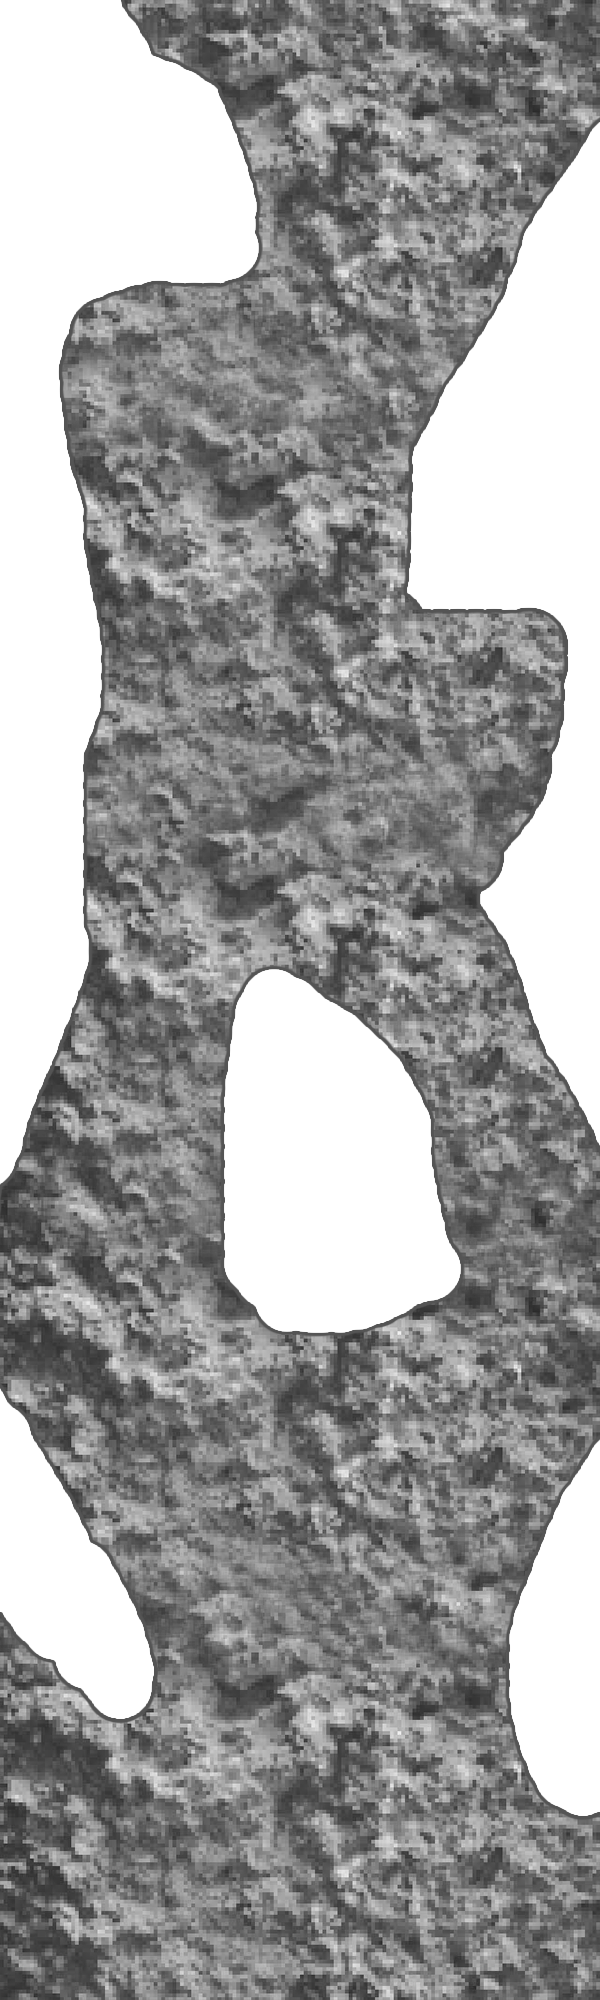
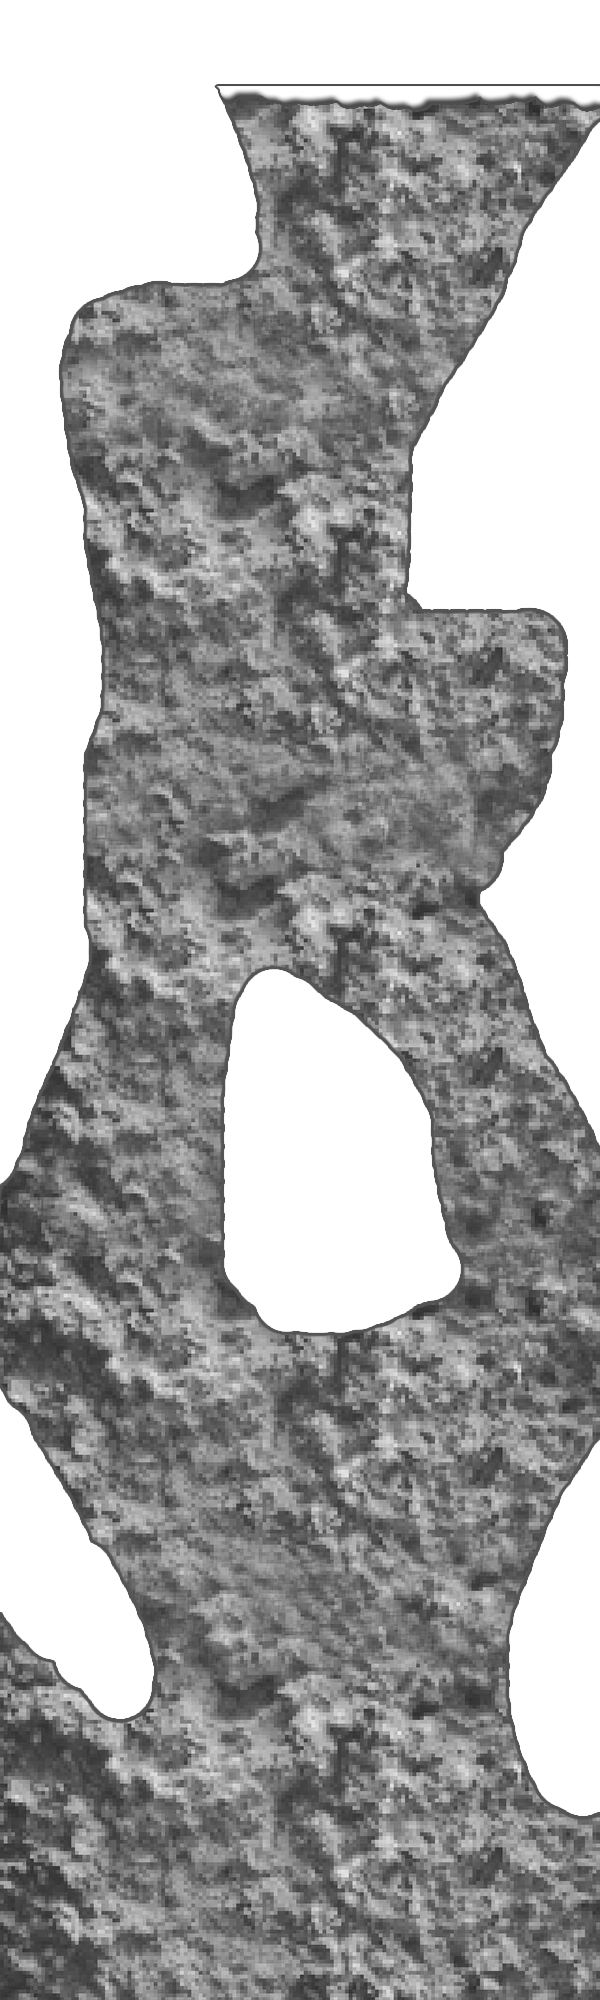
voittaminen

Changed region(s): [[0.21, 0.0, 1.0, 0.062]]

diff --git a/player.js b/player.js
@@ -8,7 +8,7 @@ function Player(lives, x, y) {
 	//Rajat missä pelkästään tausta alkaa liikkua
 	this.xleft=10;
 	this.xright=WIDTH-30;
-	this.ytop=100;
+	this.ytop=0;
 	this.ybottom=HEIGHT-30;
 	this.Xspeed=3;
 	this.Yspeed=1;
@@ -16,6 +16,7 @@ function Player(lives, x, y) {
 	this.dead=false;
 	//Kuolleena tarvitaan nopeusparametria.
 	this.vel=0;
+	this.won=false;
 	
 	//Testataan ladata pelaajasprite ja heittää se ruudulle.. lopullinen versio voisi olla eligantimpi ja enemmän kamaa player.jsssä
 	//Lisää EaselJS spritesheeteistä http://createjs.com/Docs/EaselJS/classes/SpriteSheet.html
@@ -23,13 +24,19 @@ function Player(lives, x, y) {
 		//Framerate animaatiolle, myös yksittäisille actioneille (kuten climb) voi vielä asettaa oman nopeuden
 		 framerate:10,
 		 images: ["images/climber.png"],
-		 frames: {width:35, height:50},
+		 frames: {width:35, height:50, count:10},
 		 //Tässä erilaisia animaatioita. Jostain syystä ne ei toimi :(
 		 animations: {
 		 	climb_vertical: [1,2], 
 		 	climb_left: { frames: [2,3,4] }, 
 		 	climb_right: { frames: [1,3,4]}, 
-		 	stationary: 0 
+		 	stationary: 0, 
+		 	stand: 9,
+		 	win_climb: { 
+		 		frames: [5,5,6,6,7,8,7,8], 
+		 		next: "stand",
+		 		speed: 0.5
+		 	}
 		 }
 	 };
 	var spriteSheet = new createjs.SpriteSheet(data);
@@ -56,37 +63,44 @@ Player.prototype.move	= function(){
 		this.lastX=this.sprite.x;
 		this.lastY=this.sprite.y;
 		// going sideways
-		if( this.dy === 0 && this.dx !== 0){
-			this.sprite.paused=false;
-			if (this.dx<0) {
-				if (this.sprite.currentAnimation != "climb_left"){
-					this.sprite.gotoAndPlay("climb_left");
+		if (!this.won) {
+			if( this.dy === 0 && this.dx !== 0){
+				this.sprite.paused=false;
+				if (this.dx<0) {
+					if (this.sprite.currentAnimation != "climb_left"){
+						this.sprite.gotoAndPlay("climb_left");
+					}
+				}		
+				else {
+					if (this.sprite.currentAnimation != "climb_right"){
+						this.sprite.gotoAndPlay("climb_right");
+					}
 				}
-			}		
-			else {
-				if (this.sprite.currentAnimation != "climb_right"){
-					this.sprite.gotoAndPlay("climb_right");
+			}
+			// going up/down
+			else if( this.dx === 0 && this.dy !== 0){
+				this.sprite.paused=false;
+				if (this.sprite.currentAnimation != "climb_vertical"){
+					this.sprite.gotoAndPlay("climb_vertical");
 				}
 			}
-		}
-		// going up/down
-		else if( this.dx === 0 && this.dy !== 0){
-			this.sprite.paused=false;
-			if (this.sprite.currentAnimation != "climb_vertical"){
-				this.sprite.gotoAndPlay("climb_vertical");
+			// going diagonallthis.dy
+			else if( this.dy !== 0 && this.dx !== 0){
+				this.sprite.paused=false;
+				if (this.sprite.currentAnimation != "climb_vertical"){
+					this.sprite.gotoAndPlay("climb_vertical");
+				}
+			}
+			// staying still
+			else{
+				this.sprite.gotoAndPlay("stationary");
+				this.sprite.paused=false;
 			}
 		}
-		// going diagonallthis.dy
-		else if( this.dy !== 0 && this.dx !== 0){
-			this.sprite.paused=false;
-			if (this.sprite.currentAnimation != "climb_vertical"){
-				this.sprite.gotoAndPlay("climb_vertical");
+		else {
+			if ((this.sprite.currentAnimation != "win_climb") && (this.sprite.currentAnimation != "stand")) {
+				this.sprite.gotoAndPlay("win_climb");
 			}
-		}
-		// staying still
-		else{
-			this.sprite.gotoAndPlay("stationary");
-			this.sprite.paused=false;
 		}
 		//Jos ollaan lähellä vasenta laitaa ja mennään vasemmalle, tai lähellä oikeaa ja mennään oikealle, pelaaja ei liiku
 		if ((this.sprite.x > this.xleft && this.dx<0) || (this.sprite.x < this.xright && this.dx>0)){
@@ -117,5 +131,5 @@ Player.prototype.move	= function(){
 }
 
 Player.prototype.win = function() {
-	
+	this.won = true;
 }

diff --git a/ui_manager.js b/ui_manager.js
@@ -30,9 +30,22 @@ function showPausedMenu(){
 function showMainMenu(){
 	stage.removeChild(world);
 	stage.removeChild(paused_menu);
+	stage.removeChild(win_menu);
 	stage.addChild(main_menu);
 }
 
+function showWinMenu(){
+	stage.addChild(win_menu);
+}
+
+//Voittamisen jälkeen resetoidaan ja hypätään main menuun nappia painettaessa
+function resetToMain(){
+	currentLevel.won=false;
+	player.won=false;
+	player.sprite.y=450;
+	player.sprite.x=170;
+	showMainMenu();
+}
 
 function createGame(){
 
@@ -56,7 +69,7 @@ function createGame(){
 	//stage.addChild(menu);
 	
 	//Luodaan pelaaja: 1 elämä, positio (10,10)
-	player = new Player(1, 170, 550);
+	player = new Player(1, 170, 450);
 	wl2.addChild(player.sprite);
 	
 	//Tehään läpällä heti kivi. Nyt kivi lisää intensä world layer kakkoseen konstruktorissa. Toinen mahdollisuus olisi luoda initissä "item"-container johon itemmit aina lisäisivät itsensä. Se auttais konsistentimmassa piirtämisjärjestyksessä.
@@ -325,8 +338,26 @@ function createMenus(){
 		resume_button.on("click", showGame);
 		replay_button.on("click", createGame);
 		main_menu_button.on("click", showMainMenu);
+		// Paused Menu END---------------------------------------------------
+		
+		// WIn Menu -----------------------------
+		win_menu = new createjs.Container();
+		var win_menu_label = new createjs.Text("You won!", "72px Impact", "#F9F9F9");
+		win_menu_label.name = "win-menu-label";
+		win_menu_label.textAlign = "center";
+		win_menu_label.textBaseline = "middle";
+		win_menu_label.x = WIDTH/2;
+		win_menu_label.y = 300;
+
+		var win_menu_button = new createjs.Container();
+		win_menu_button.name = "button";
+		win_menu_button.x = ((WIDTH/2)-75);
+		win_menu_button.y = HEIGHT*(4/6);
+		win_menu_button.addChild(main_menu_bg.clone(true),main_menu_label.clone(true));
+		win_menu_button.on("click", resetToMain);
+		win_menu.addChild(win_menu_label, win_menu_button);
 	}
-	// Paused Menu END---------------------------------------------------
+	
 
 }
 

diff --git a/animation.js b/animation.js
@@ -49,7 +49,7 @@ $(window).load(function(){
 			//takaisin edelliseen positioonsa.
 			var collision = ndgmr.checkPixelCollision(currentLevel.bg, player.sprite, 0.75);
 			//console.log(collision);
-			if (!(player.dead) && (collision !== false)) {
+			if (!(player.dead) && !(player.won) && (collision !== false)) {
 				player.sprite.x = player.lastX;
 				player.sprite.y = player.lastY;
 				currentLevel.bg.y=currentLevel.lastY;
@@ -81,33 +81,36 @@ $(window).load(function(){
 	UP_DOWN=false;
 		
 	$(document).keydown(function(e) {
-		if (e.keyCode == KEYCODE_ESC) {
-			gamePaused = true;
-			showPausedMenu();
-		}
-		if (e.keyCode == KEYCODE_LEFT) {
-			e.preventDefault();
-			//console.log("left");
-			LEFT_DOWN = true;
-			player.dx = -1;
-		}
-		if (e.keyCode == KEYCODE_RIGHT) {
-			e.preventDefault();
-			//console.log("right");
-			RIGHT_DOWN = true;
-			player.dx = 1;
-		}
-		if (e.keyCode == KEYCODE_UP) {
-			e.preventDefault();
-			//console.log("up");
-			UP_DOWN = true;
-			player.dy = -1;
-		}
-		if (e.keyCode == KEYCODE_DOWN) {
-			e.preventDefault();
-			//console.log("down");
-			DOWN_DOWN = true;
-			player.dy = 1;
+		//Tän avulla voidaan disablea liikkuminen, kun voittaa pelin, mutta silti hyödynnetään pelaajan perus liikkumisspritejä.
+		if (!currentLevel.moveDisabled) {
+			if (e.keyCode == KEYCODE_ESC) {
+				gamePaused = true;
+				showPausedMenu();
+			}
+			if (e.keyCode == KEYCODE_LEFT) {
+				e.preventDefault();
+				//console.log("left");
+				LEFT_DOWN = true;
+				player.dx = -1;
+			}
+			if (e.keyCode == KEYCODE_RIGHT) {
+				e.preventDefault();
+				//console.log("right");
+				RIGHT_DOWN = true;
+				player.dx = 1;
+			}
+			if (e.keyCode == KEYCODE_UP) {
+				e.preventDefault();
+				//console.log("up");
+				UP_DOWN = true;
+				player.dy = -1;
+			}
+			if (e.keyCode == KEYCODE_DOWN) {
+				e.preventDefault();
+				//console.log("down");
+				DOWN_DOWN = true;
+				player.dy = 1;
+			}
 		}
 	});
 

diff --git a/level.js b/level.js
@@ -41,7 +41,7 @@ Level.prototype.move = function () {
 			// Liikuta liikkumisaluetta ja taustaa
 			//Jos pelaaja on niin ylhäällä/alhaalla ettei itse liiku niin tausta liikkuu tuplanopeudella (jolloin kokonaisliiku pysyy samana riippumatta pelaajan paikasta)
 			this.lastY=this.bg.y;
-			if (played.dy>0) {
+			if (player.dy>0) {
 				this.speed=this.downspeed;
 			}
 			else {
@@ -49,6 +49,10 @@ Level.prototype.move = function () {
 			}
 			this.bg.y-=player.dy*this.speed;
 			this.ga.y-=player.dy*this.speed;
+			//Liikutellaan tavaroita, jotta ylös/alas liikkuminen jopa auttaisi niiden väistelyssä.
+			for(i=0; i<items.length; i++) {
+				items[i].move(0, -player.dy*this.speed);
+			}
 		}
 		//Kun saavutetaan vuoren huippu pelaajan nopeutta nostetaan.
 		else if ((this.height-this.bg.y)>=(HEIGHT/2)&& player.dy<0) {
@@ -70,17 +74,22 @@ Level.prototype.getScore = function () {
 //SCriptattu voittokävely
 //100 pixelii ylöspäin, minkä jälkeen näytetään voittoanimaatio (?? joku lipun istutus) ja sitten uusi idleanimaatio.
 Level.prototype.win = function () {
+	//Kun peli voitetaan vaihetaan animaatiota.
+	if (!this.won) {
+		//player.sprite.gotoAndPlay("win_climb");
+	}
 	//Nää kaks muuttujaa on käytännössä samoja mutta selkeyttää koodin lukemista kun ne on eri nimil.
 	this.movementDisabled=true;
 	this.won=true;
 	//Eli nyt mennään ylöspäin joku tietty matka.
 	if (player.sprite.y > 50) {
+		player.win();
 		player.dy=-1;
 		player.ytop=0;
 	}
 	//Kun se on ohi voittoanimaatio näytetään. Kutsun player.win, koska voi olla kätevintä tehdä kokonaan uusi sprite sheet jne. Playerissä voi sitten kikkailla niillä.
-	else {
+	else if (player.sprite.y > 25) {
 		player.dy=0;
-		player.win();
+		showWinMenu();
 	}
 }

diff --git a/item.js b/item.js
@@ -39,9 +39,13 @@ Item.prototype.warn = function () {
 }
 
 //Tällä liikutellaan tavaroita taustan mukana
-Item.prototype.move = function(x) {
+Item.prototype.move = function(x,y) {
 	this.warning.x+=x;
 	this.object.x+=x;
+	//Muutetaan ytä vaan jos kivi on jo liikkeellä
+	if (this.vel!=0) {
+		this.object.y+=y;
+	}	
 }
 
 Item.prototype.crash = function () {
